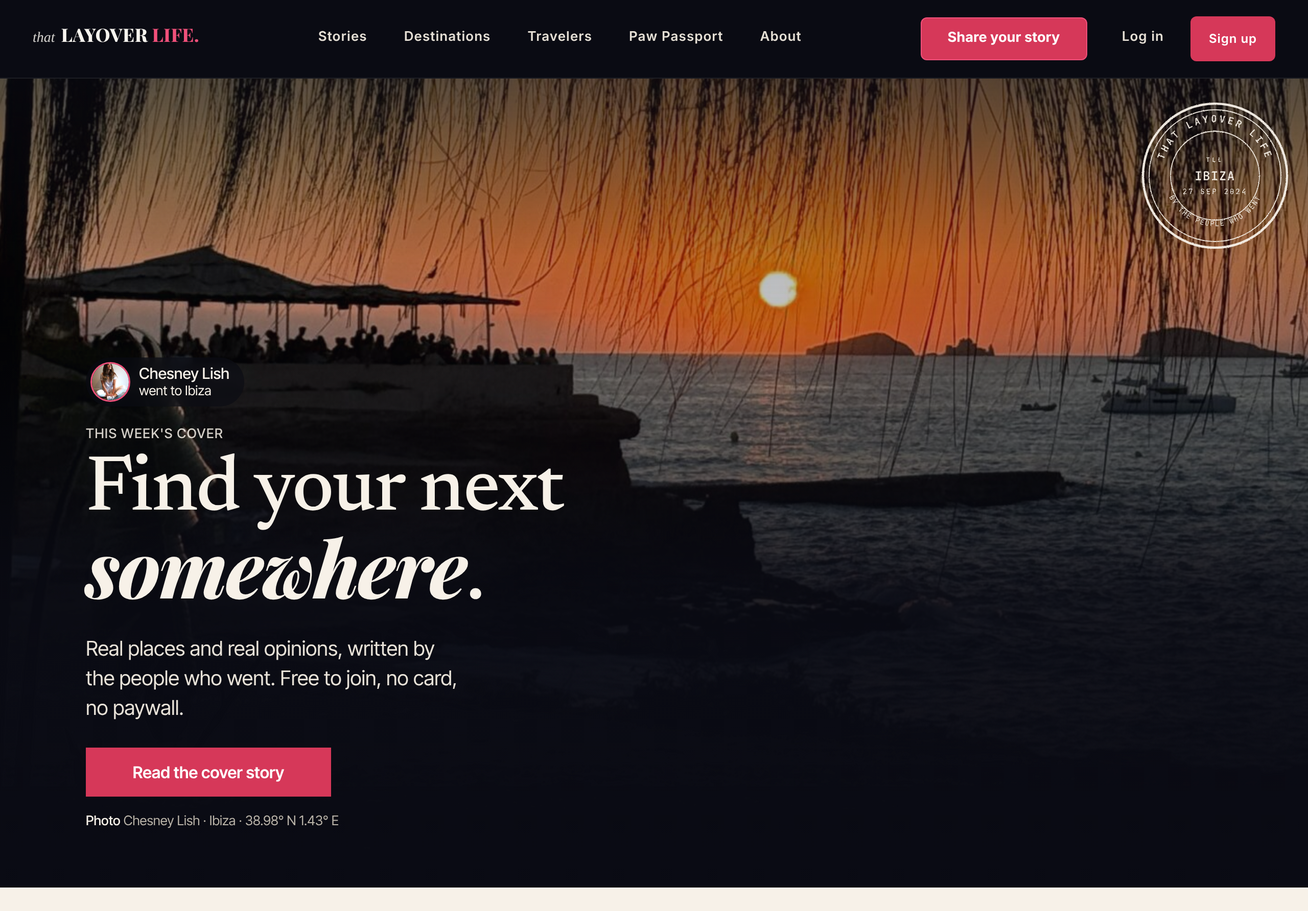
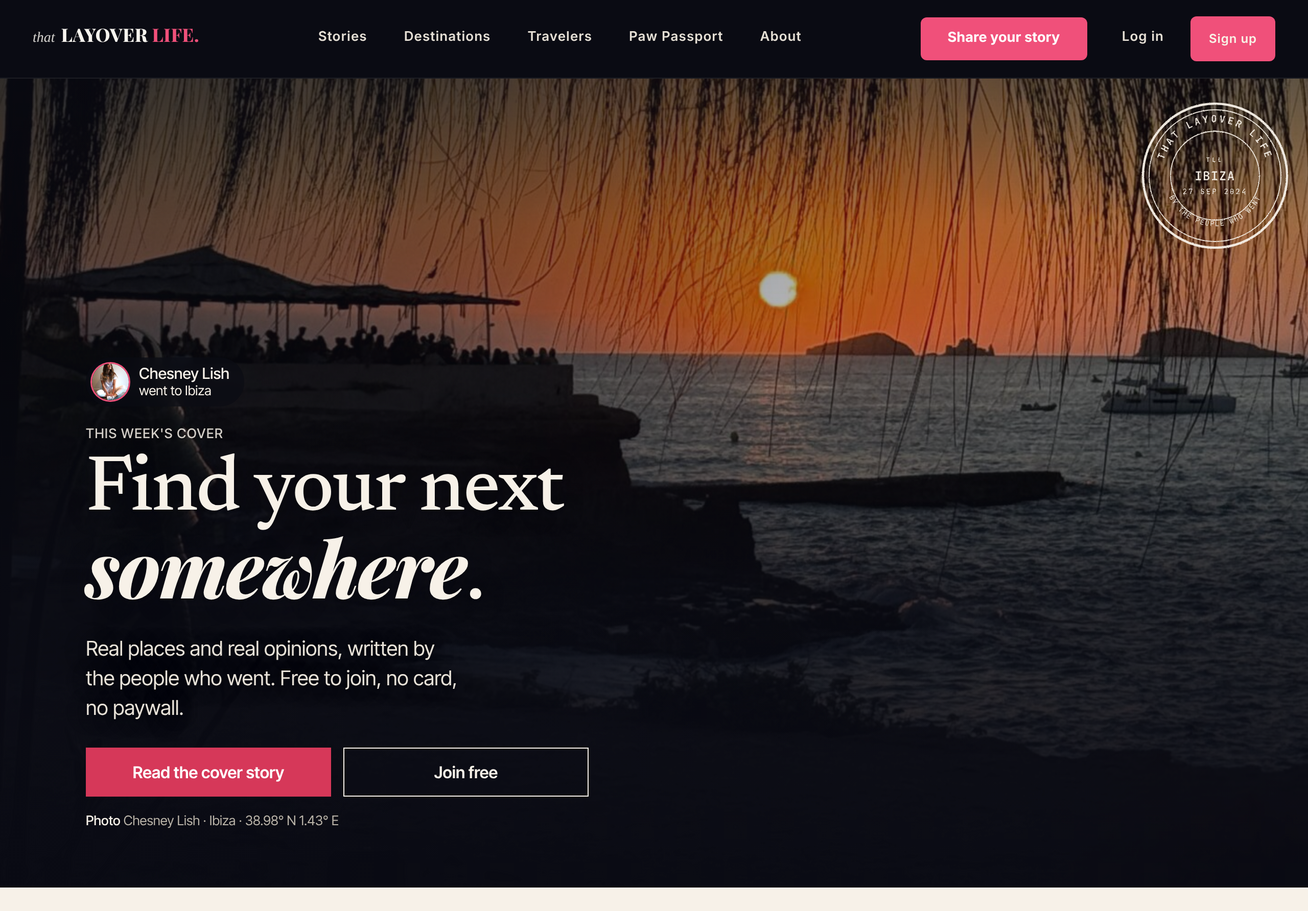
Home: lighter cover scrim; photo bands use members' story photos, credited and linked (not yet built or published)
Claude-Session: https://claude.ai/code/session_01GTTttGvX2VTwovAB2g1cLf

diff --git a/src/design/magazine-2026-10/cover-build/cover.template.html b/src/design/magazine-2026-10/cover-build/cover.template.html
@@ -7,7 +7,7 @@
    Loads after the page's own styles and after tll-home-hero-phone-v1, so it wins the cascade with the same specificity. */
 body:not(.tll-none) [data-h3-hero]{position:relative !important;min-height:max(calc(100svh - 96px),640px) !important;display:flex !important;flex-direction:column !important;justify-content:flex-end !important;margin:0 !important;padding:0 !important;border:0 !important;border-radius:0 !important;overflow:hidden !important;background:#0A0B14 !important;--tll-cover-pos:var(--tll-cover-pos-phone,50% 50%)}
 body:not(.tll-none) [data-h3-hero] > img[data-tll-parallax="hero"]{position:absolute !important;inset:0 !important;top:calc(-1 * var(--tll-cover-zoom,0%)) !important;bottom:auto !important;width:100% !important;height:calc(100% + var(--tll-cover-zoom,0%)) !important;max-width:none !important;object-fit:cover !important;object-position:var(--tll-cover-pos) !important;border-radius:0 !important;transform:none !important;opacity:1 !important;filter:none !important}
-body:not(.tll-none) [data-h3-hero]::after{content:"" !important;position:absolute !important;inset:0 !important;z-index:1 !important;pointer-events:none !important;background:linear-gradient(180deg,rgba(10,11,20,.4) 0%,rgba(10,11,20,0) 22%,rgba(10,11,20,.05) 52%,rgba(10,11,20,.5) 70%,rgba(10,11,20,.9) 100%) !important}
+body:not(.tll-none) [data-h3-hero]::after{content:"" !important;position:absolute !important;inset:0 !important;z-index:1 !important;pointer-events:none !important;background:linear-gradient(180deg,rgba(10,11,20,.32) 0%,rgba(10,11,20,0) 20%,rgba(10,11,20,0) 46%,rgba(10,11,20,.42) 66%,rgba(10,11,20,.84) 100%) !important}
 body:not(.tll-none) [data-h3-hero] > div:has(> h1){position:relative !important;z-index:2 !important;width:100% !important;max-width:none !important;margin:0 !important;padding:0 16px max(clamp(40px,8vh,80px),76px) !important;box-sizing:border-box !important}
 body:not(.tll-none) [data-h3-hero] .tll-mg-eyebrow{display:none !important}
 body:not(.tll-none) [data-h3-hero] .tll-mg-chip{display:inline-flex !important;align-items:center;gap:10px;padding:6px 14px 6px 6px;min-height:48px;border-radius:999px;background:rgba(10,11,20,.6);color:#F7F1E8 !important;text-decoration:none !important;font:400 13px/1.2 'Inter Tight',system-ui,sans-serif;margin:0 0 18px;backdrop-filter:blur(6px);-webkit-backdrop-filter:blur(6px);max-width:100%}
@@ -36,7 +36,9 @@ body:not(.tll-none) [data-h3-hero] .tll-mg-stamp svg{display:block;width:100%;he
 @media(prefers-reduced-motion:reduce){body:not(.tll-none) [data-h3-hero] .tll-mg-stamp{animation:none}}
 @media(min-width:768px){
 body:not(.tll-none) [data-h3-hero]{min-height:min(88vh,860px) !important;--tll-cover-pos:var(--tll-cover-pos-desk,50% 50%);--tll-cover-zoom:0%}
-body:not(.tll-none) [data-h3-hero]::after{background:linear-gradient(180deg,rgba(10,11,20,.4) 0%,rgba(10,11,20,0) 22%,rgba(10,11,20,.1) 50%,rgba(10,11,20,.72) 72%,rgba(10,11,20,.94) 100%) !important}
+body:not(.tll-none) [data-h3-hero]::after{background:linear-gradient(90deg,rgba(10,11,20,.55) 0%,rgba(10,11,20,.36) 34%,rgba(10,11,20,.08) 62%,rgba(10,11,20,0) 78%),linear-gradient(180deg,rgba(10,11,20,.3) 0%,rgba(10,11,20,0) 18%,rgba(10,11,20,0) 64%,rgba(10,11,20,.34) 100%) !important}
+body:not(.tll-none) [data-h3-hero] > img[data-tll-parallax="hero"]{filter:brightness(1.14) saturate(1.06)}
+body:not(.tll-none) [data-h3-hero] h1:not(.tll-story-title),body:not(.tll-none) [data-h3-hero] h1:not(.tll-story-title) + p,body:not(.tll-none) [data-h3-hero] .tll-mg-kicker{text-shadow:0 1px 2px rgba(10,11,20,.35),0 2px 24px rgba(10,11,20,.45)}
 body:not(.tll-none) [data-h3-hero] > div:has(> h1){max-width:1240px !important;margin:0 auto !important;padding:0 var(--h3-g,48px) 56px !important}
 body:not(.tll-none) [data-h3-hero] h1:not(.tll-story-title){font-size:clamp(56px,6vw,96px) !important}
 body:not(.tll-none) [data-h3-hero] h1:not(.tll-story-title) + p{font-size:20px !important}

diff --git a/src/design/magazine-2026-10/cover-build/tll-mag-cover-v1.html b/src/design/magazine-2026-10/cover-build/tll-mag-cover-v1.html
@@ -7,7 +7,7 @@
    Loads after the page's own styles and after tll-home-hero-phone-v1, so it wins the cascade with the same specificity. */
 body:not(.tll-none) [data-h3-hero]{position:relative !important;min-height:max(calc(100svh - 96px),640px) !important;display:flex !important;flex-direction:column !important;justify-content:flex-end !important;margin:0 !important;padding:0 !important;border:0 !important;border-radius:0 !important;overflow:hidden !important;background:#0A0B14 !important;--tll-cover-pos:var(--tll-cover-pos-phone,50% 50%)}
 body:not(.tll-none) [data-h3-hero] > img[data-tll-parallax="hero"]{position:absolute !important;inset:0 !important;top:calc(-1 * var(--tll-cover-zoom,0%)) !important;bottom:auto !important;width:100% !important;height:calc(100% + var(--tll-cover-zoom,0%)) !important;max-width:none !important;object-fit:cover !important;object-position:var(--tll-cover-pos) !important;border-radius:0 !important;transform:none !important;opacity:1 !important;filter:none !important}
-body:not(.tll-none) [data-h3-hero]::after{content:"" !important;position:absolute !important;inset:0 !important;z-index:1 !important;pointer-events:none !important;background:linear-gradient(180deg,rgba(10,11,20,.4) 0%,rgba(10,11,20,0) 22%,rgba(10,11,20,.05) 52%,rgba(10,11,20,.5) 70%,rgba(10,11,20,.9) 100%) !important}
+body:not(.tll-none) [data-h3-hero]::after{content:"" !important;position:absolute !important;inset:0 !important;z-index:1 !important;pointer-events:none !important;background:linear-gradient(180deg,rgba(10,11,20,.32) 0%,rgba(10,11,20,0) 20%,rgba(10,11,20,0) 46%,rgba(10,11,20,.42) 66%,rgba(10,11,20,.84) 100%) !important}
 body:not(.tll-none) [data-h3-hero] > div:has(> h1){position:relative !important;z-index:2 !important;width:100% !important;max-width:none !important;margin:0 !important;padding:0 16px max(clamp(40px,8vh,80px),76px) !important;box-sizing:border-box !important}
 body:not(.tll-none) [data-h3-hero] .tll-mg-eyebrow{display:none !important}
 body:not(.tll-none) [data-h3-hero] .tll-mg-chip{display:inline-flex !important;align-items:center;gap:10px;padding:6px 14px 6px 6px;min-height:48px;border-radius:999px;background:rgba(10,11,20,.6);color:#F7F1E8 !important;text-decoration:none !important;font:400 13px/1.2 'Inter Tight',system-ui,sans-serif;margin:0 0 18px;backdrop-filter:blur(6px);-webkit-backdrop-filter:blur(6px);max-width:100%}
@@ -36,7 +36,9 @@ body:not(.tll-none) [data-h3-hero] .tll-mg-stamp svg{display:block;width:100%;he
 @media(prefers-reduced-motion:reduce){body:not(.tll-none) [data-h3-hero] .tll-mg-stamp{animation:none}}
 @media(min-width:768px){
 body:not(.tll-none) [data-h3-hero]{min-height:min(88vh,860px) !important;--tll-cover-pos:var(--tll-cover-pos-desk,50% 50%);--tll-cover-zoom:0%}
-body:not(.tll-none) [data-h3-hero]::after{background:linear-gradient(180deg,rgba(10,11,20,.4) 0%,rgba(10,11,20,0) 22%,rgba(10,11,20,.1) 50%,rgba(10,11,20,.72) 72%,rgba(10,11,20,.94) 100%) !important}
+body:not(.tll-none) [data-h3-hero]::after{background:linear-gradient(90deg,rgba(10,11,20,.55) 0%,rgba(10,11,20,.36) 34%,rgba(10,11,20,.08) 62%,rgba(10,11,20,0) 78%),linear-gradient(180deg,rgba(10,11,20,.3) 0%,rgba(10,11,20,0) 18%,rgba(10,11,20,0) 64%,rgba(10,11,20,.34) 100%) !important}
+body:not(.tll-none) [data-h3-hero] > img[data-tll-parallax="hero"]{filter:brightness(1.14) saturate(1.06)}
+body:not(.tll-none) [data-h3-hero] h1:not(.tll-story-title),body:not(.tll-none) [data-h3-hero] h1:not(.tll-story-title) + p,body:not(.tll-none) [data-h3-hero] .tll-mg-kicker{text-shadow:0 1px 2px rgba(10,11,20,.35),0 2px 24px rgba(10,11,20,.45)}
 body:not(.tll-none) [data-h3-hero] > div:has(> h1){max-width:1240px !important;margin:0 auto !important;padding:0 var(--h3-g,48px) 56px !important}
 body:not(.tll-none) [data-h3-hero] h1:not(.tll-story-title){font-size:clamp(56px,6vw,96px) !important}
 body:not(.tll-none) [data-h3-hero] h1:not(.tll-story-title) + p{font-size:20px !important}

diff --git a/src/site-layers/tll-home-bands-v1.js b/src/site-layers/tll-home-bands-v1.js
@@ -1,0 +1,31 @@
+/* tll-home-bands-v1 (29 Oct 2026, Nancy: the Brazil band "looks pixelated"; the Montenegro band "I think we have better images for this").
+   The two full-width photo bands on the home page now show members' own story photos at full size (2400 px wide), each credited to the
+   writer and linked to the story it came from. Captions name the place of a published story, never where anyone is now. Home only;
+   the figure, its classes and its data-h3-il key stay; nothing is removed and no data-ms-* element is touched. */
+(function(){
+if(!/^\/(index\.html)?$/.test(location.pathname))return;
+var C='https://cdn.prod.website-files.com/6a0b29c6d081332e921900d8/';
+var B={
+ rio:{src:C+'6ac86ab8eaf54b2878f9344b_6ac86a1e460d26e52c3f8d09_pantanal-hero-jaguar-swimming-the-cuiaba-river.jpeg',w:2400,h:1350,
+  alt:'A jaguar swimming across the Cuiaba River in the Pantanal',pos:'50% 42%',label:'In the library · Pantanal, Brazil',by:'Nancy Carleton',href:'/stories/pantanal-glimmers-in-the-wild'},
+ montenegro:{src:C+'6aba3d42f18f65b8d06aea74_6aba3cbc0a48f32b1687edfc_sortsol-hero-murmuration-over-the-cars.jpeg',w:2400,h:1350,
+  alt:'A murmuration of starlings at sunset during Sort Sol, cars parked below',pos:'50% 40%',label:'On the map · Sort Sol, Denmark',by:'Nancy Carleton',href:'/stories/sort-sol-black-sun-denmark'}
+};
+var CSS=".h3-il[data-tll-band] figcaption{padding:0!important;background:none!important}"+
+".h3-il[data-tll-band] figcaption a{display:inline-block;padding:8px 12px;background:rgba(10,11,20,.72);color:#F7F1E8!important;text-decoration:none!important}"+
+".h3-il[data-tll-band] figcaption b{font-weight:600}"+
+".h3-il[data-tll-band] figcaption a:hover b,.h3-il[data-tll-band] figcaption a:focus-visible b{text-decoration:underline;text-decoration-color:#F0507A;text-underline-offset:3px}"+
+".h3-il[data-tll-band] figcaption a:focus-visible{outline:3px solid #F0507A;outline-offset:3px}";
+function swap(){
+  if(!document.getElementById('tll-home-bands-v1')){var s=document.createElement('style');s.id='tll-home-bands-v1';s.textContent=CSS;(document.body||document.head).appendChild(s);}
+  Object.keys(B).forEach(function(k){
+    var f=document.querySelector('figure.h3-il[data-h3-il="'+k+'"]');if(!f||f.getAttribute('data-tll-band'))return;
+    var p=B[k],i=f.querySelector('img'),c=f.querySelector('figcaption');if(!i||!c)return;
+    f.setAttribute('data-tll-band','1');
+    i.removeAttribute('srcset');i.removeAttribute('sizes');i.src=p.src;i.alt=p.alt;i.width=p.w;i.height=p.h;i.style.objectPosition=p.pos;
+    var a=document.createElement('a');a.href=p.href;a.appendChild(document.createTextNode(p.label+' · '));
+    var b=document.createElement('b');b.textContent=p.by;a.appendChild(b);c.textContent='';c.appendChild(a);
+  });
+}
+if(document.readyState==='loading')document.addEventListener('DOMContentLoaded',swap);else swap();
+})();

diff --git a/src/site-layers/build-site-layers-v16.py b/src/site-layers/build-site-layers-v16.py
@@ -28,7 +28,8 @@ SCRIPTS = [('src/components/member-bar/tll-account-hash-tabs-v1.js', 'member bar
            ('src/site-layers/tll-ep-ux-v1.js', '29 Oct testers: /edit-profile save bar at the bottom, field stays put while saving, country suggestions, photo crop'),
            ('src/site-layers/tll-submit-ux-v1.js', '29 Oct testers: /submit toolbar buttons labelled, Subhead easy to find'),
            ('src/site-layers/tll-profile-count-v1.js', '29 Oct: profile STORIES stat keeps the writer own count (the head script wrote the site total)'),
-           ('src/site-layers/tll-hover-v1.js', '29 Oct Nancy: dark pink hover on light backgrounds instead of bright teal on /account')]
+           ('src/site-layers/tll-hover-v1.js', '29 Oct Nancy: dark pink hover on light backgrounds instead of bright teal on /account'),
+           ('src/site-layers/tll-home-bands-v1.js', '29 Oct Nancy: home photo bands use members story photos at full size, credited and linked')]
 MAG = 'src/design/magazine-2026-10/story-build/tll-mag-story-v1.html'
 def css(f, i): return [i, re.search(r'<style id="%s">\n(.*)</style>' % i, open(f).read(), re.S).group(1)]
 mag = open(MAG).read()
